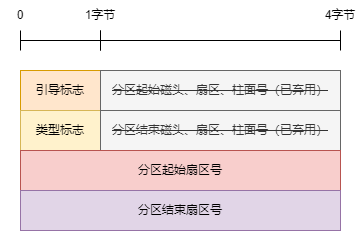
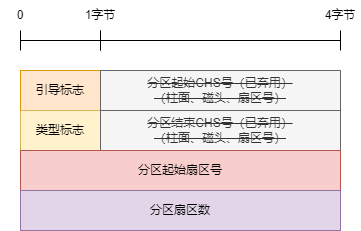
磁盘分区

Changed region(s): [[0.3047, 0.4848, 0.9141, 0.6364], [0.3047, 0.3333, 0.9141, 0.4545], [0.3657, 0.8788, 0.6094, 0.9394]]

diff --git a/linux运维/linux运维 02 磁盘分区/linux运维 02 磁盘分区.md b/linux运维/linux运维 02 磁盘分区/linux运维 02 磁盘分区.md
@@ -1,7 +1,12 @@
 - [mbr分区](#mbr分区)
+  - [mbr分区结构](#mbr分区结构)
+  - [创建mbr分区测试](#创建mbr分区测试)
+  - [查看mbr分区表](#查看mbr分区表)
 - [参考资料](#参考资料)
 
 # mbr分区
+
+## mbr分区结构
 
 主引导记录（Master Boot Record）分区，在磁盘的第一个扇区（512字节）记录引导程序和分区表，结构如下。
 
@@ -11,7 +16,7 @@
 | 磁盘分区表（DPT） | 64字节  | 每个分区16字节，最多支持4个主分区，或者3个主分区+1个扩展分区 |
 |     结束标志      |  2字节  |                        固定为`55 aa`                         |
 
-扩展分区可以创建多个逻辑分区，每个逻辑分区的第一个扇区记录着当前分区和下一个逻辑分区信息。
+在扩展分区中可以创建多个逻辑分区，扩展分区指向第一个逻辑分区表，每个逻辑分区表记录着当前逻辑分区和下一个逻辑分区表信息。
 
 ![mbr_struct](mbr_struct.png)
 
@@ -22,14 +27,268 @@
 - 引导标志：80H表示活动分区，00H表示非活动分区。
 - 类型标志
 
-| 类型标志 |        说明         |
-| :------: | :-----------------: |
-|   0fH    | LBA寻址模式extended |
-|   83H    |    Linux nature     |
-|   85H    |   Linux extended    |
-|   8eH    |      Linux lvm      |
+| 类型  |        说明         | 类型  |       说明        | 类型  |         说明          | 类型  |       说明        |
+| :---: | :-----------------: | :---: | :---------------: | :---: | :-------------------: | :---: | :---------------: |
+|  00   |       `Empty`       |  24   |     `NEC DOS`     |  81   |   `Minix/old Linux`   |  bf   |     `Solaris`     |
+|  01   |       `FAT12`       |  27   | `Hidden NTFS Win` |  82   |     `Linux swap`      |  c1   |    `DRDOS/sec`    |
+|  02   |    `XENIX root`     |  39   |     `Plan 9`      |  83   |        `Linux`        |  c4   |    `DRDOS/sec`    |
+|  03   |     `XENIX usr`     |  3c   | `PartitionMagic`  |  84   |   `OS/2 hidden C:`    |  c6   |    `DRDOS/sec`    |
+|  04   |    `FAT16 <32M`     |  40   |   `Venix 80286`   |  85   |   `Linux extended`    |  c7   |     `Syrinx`      |
+|  05   |     `Extended`      |  41   |  `PPC PReP Boot`  |  86   |   `NTFS volume set`   |  da   |   `Non-FS data`   |
+|  06   |       `FAT16`       |  42   |       `SFS`       |  87   |   `NTFS volume set`   |  db   |    `CP/M/CTOS`    |
+|  07   |  `HPFS/NTFS/exFAT`  |  4d   |     `QNX4.x`      |  88   |   `Linux plaintext`   |  de   |  `Dell Utility`   |
+|  08   |        `AIX`        |  4e   | `QNX4.x 2nd part` |  8e   |      `Linux LVM`      |  df   |     `BootIt`      |
+|  09   |   `AIX bootable`    |  4f   | `QNX4.x 3rd part` |  93   |       `Amoeba`        |  e1   |   `DOS access`    |
+|  0a   | `OS/2 Boot Manage`  |  50   |   `OnTrack DM`    |  94   |     `Amoeba BBT`      |  e3   |     `DOS R/O`     |
+|  0b   |     `W95 FAT32`     |  51   | `OnTrack DM6 Aux` |  9f   |       `BSD/OS`        |  e4   |    `SpeedStor`    |
+|  0c   |  `W95 FAT32 (LBA)`  |  52   |      `CP/M`       |  a0   | `IBM Thinkpad hidden` |  eb   |     `BeOS fs`     |
+|  0e   |  `W95 FAT16 (LBA)`  |  53   | `OnTrack DM6 Aux` |  a5   |       `FreeBSD`       |  ee   |       `GPT`       |
+|  0f   |  `W95 Ext'd (LBA)`  |  54   |   `OnTrackDM6`    |  a6   |       `OpenBSD`       |  ef   |       `EFI`       |
+|  10   |       `OPUS`        |  55   |    `EZ-Drive`     |  a7   |      `NeXTSTEP`       |  f0   | `Linux/PA-RISC b` |
+|  11   |   `Hidden FAT12`    |  56   |   `Golden Bow`    |  a8   |     `Darwin UFS`      |  f1   |    `SpeedStor`    |
+|  12   |  `Compaq diagnost`  |  5c   |   `Priam Edisk`   |  a9   |       `NetBSD`        |  f4   |    `SpeedStor`    |
+|  14   | `Hidden FAT16 <32M` |  61   |    `SpeedStor`    |  ab   |     `Darwin boot`     |  f2   |  `DOS secondary`  |
+|  16   |   `Hidden FAT16`    |  63   | `GNU HURD or Sys` |  af   |      `HFS/HFS+`       |  fb   |   `VMware VMFS`   |
+|  17   |  `Hidden HPFS/NTF`  |  64   | `Novell Netware`  |  b7   |       `BSDI fs`       |  fc   | `VMware VMKCORE`  |
+|  18   |  `AST SmartSleep`   |  65   | `Novell Netware`  |  b8   |      `BSDI swap`      |  fd   | `Linux raid auto` |
+|  1b   | `Hidden W95 FAT32`  |  70   | `DiskSecure Mult` |  bb   | `Boot Wizard hidden`  |  fe   |     `LANstep`     |
+|  1c   | `Hidden W95 FAT32`  |  75   |      `PC/IX`      |  be   |    `Solaris boot`     |  ff   |       `BBT`       |
+|  1e   | `Hidden W95 FAT16`  |  80   |    `Old Minix`    |       |                       |       |                   |
 
 - 分区起始扇区号：最大只能计算到2TB，所以MBR最大只支持2TB的磁盘分区。并且需要考虑扇区对齐，因为物理扇区的大小不一定等于逻辑扇区的大小，所以要让划分的逻辑扇区和物理扇区对齐，linux和window中默认对齐扇区数为2048（一般为1MB）。
+
+## 创建mbr分区测试
+
+下面尝试对一个块设备进行分区，3个主分区+1个扩展分区，扩展分区中包含2个逻辑分区。
+
+```bash
+[rc@centos ~]$ sudo fdisk /dev/sdb
+Welcome to fdisk (util-linux 2.23.2).
+
+Changes will remain in memory only, until you decide to write them.
+Be careful before using the write command.
+
+# 划分第1个主分区
+Command (m for help): n
+Partition type:
+   p   primary (0 primary, 0 extended, 4 free)
+   e   extended
+Select (default p): p
+Partition number (1-4, default 1): 1
+First sector (2048-120176639, default 2048):
+Using default value 2048
+Last sector, +sectors or +size{K,M,G} (2048-120176639, default 120176639): +16G
+Partition 1 of type Linux and of size 16 GiB is set
+
+# 划分第2个主分区
+Command (m for help): n
+Partition type:
+   p   primary (1 primary, 0 extended, 3 free)
+   e   extended
+Select (default p): p
+Partition number (2-4, default 2): 2
+First sector (33556480-120176639, default 33556480):
+Using default value 33556480
+Last sector, +sectors or +size{K,M,G} (33556480-120176639, default 120176639): +16G
+Partition 2 of type Linux and of size 16 GiB is set
+
+# 划分第3个主分区
+Command (m for help): n
+Partition type:
+   p   primary (2 primary, 0 extended, 2 free)
+   e   extended
+Select (default p): p
+Partition number (3,4, default 3): 3
+First sector (67110912-120176639, default 67110912):
+Using default value 67110912
+Last sector, +sectors or +size{K,M,G} (67110912-120176639, default 120176639): +16G
+Partition 3 of type Linux and of size 16 GiB is set
+
+# 划分扩展分区
+Command (m for help): n
+Partition type:
+   p   primary (3 primary, 0 extended, 1 free)
+   e   extended
+Select (default e): e
+Selected partition 4
+First sector (100665344-120176639, default 100665344):
+Using default value 100665344
+Last sector, +sectors or +size{K,M,G} (100665344-120176639, default 120176639):
+Using default value 120176639
+Partition 4 of type Extended and of size 9.3 GiB is set
+
+# 划分第1个逻辑分区
+Command (m for help): n
+All primary partitions are in use
+Adding logical partition 5
+First sector (100667392-120176639, default 100667392):
+Using default value 100667392
+Last sector, +sectors or +size{K,M,G} (100667392-120176639, default 120176639): +8G
+Partition 5 of type Linux and of size 8 GiB is set
+
+# 划分第2个逻辑分区
+Command (m for help): n
+All primary partitions are in use
+Adding logical partition 6
+First sector (117446656-120176639, default 117446656):
+Using default value 117446656
+Last sector, +sectors or +size{K,M,G} (117446656-120176639, default 120176639):
+Using default value 120176639
+Partition 6 of type Linux and of size 1.3 GiB is set
+
+# 查看划分好的分区
+Command (m for help): p
+
+Disk /dev/sdb: 61.5 GB, 61530439680 bytes, 120176640 sectors
+Units = sectors of 1 * 512 = 512 bytes
+Sector size (logical/physical): 512 bytes / 512 bytes
+I/O size (minimum/optimal): 512 bytes / 512 bytes
+Disk label type: dos
+Disk identifier: 0x0007ec62
+
+   Device Boot      Start         End      Blocks   Id  System
+/dev/sdb1            2048    33556479    16777216   83  Linux
+/dev/sdb2        33556480    67110911    16777216   83  Linux
+/dev/sdb3        67110912   100665343    16777216   83  Linux
+/dev/sdb4       100665344   120176639     9755648    5  Extended
+/dev/sdb5       100667392   117444607     8388608   83  Linux
+/dev/sdb6       117446656   120176639     1364992   83  Linux
+
+# 保存分区表到磁盘
+Command (m for help): w
+The partition table has been altered!
+
+Calling ioctl() to re-read partition table.
+Syncing disks.
+[rc@centos ~]$
+```
+
+## 查看mbr分区表
+
+首先查看扇区0，可以看到3个主分区和1个扩展分区信息。
+
+```bash
+[rc@centos ~]$ sudo dd if=/dev/sdb bs=512 count=1 2>/dev/null | hexdump -Cv
+00000000  fa b8 00 10 8e d0 bc 00  b0 b8 00 00 8e d8 8e c0  |................|
+00000010  fb be 00 7c bf 00 06 b9  00 02 f3 a4 ea 21 06 00  |...|.........!..|
+00000020  00 be be 07 38 04 75 0b  83 c6 10 81 fe fe 07 75  |....8.u........u|
+00000030  f3 eb 16 b4 02 b0 01 bb  00 7c b2 80 8a 74 01 8b  |.........|...t..|
+00000040  4c 02 cd 13 ea 00 7c 00  00 eb fe 00 00 00 00 00  |L.....|.........|
+00000050  00 00 00 00 00 00 00 00  00 00 00 00 00 00 00 00  |................|
+00000060  00 00 00 00 00 00 00 00  00 00 00 00 00 00 00 00  |................|
+00000070  00 00 00 00 00 00 00 00  00 00 00 00 00 00 00 00  |................|
+00000080  00 00 00 00 00 00 00 00  00 00 00 00 00 00 00 00  |................|
+00000090  00 00 00 00 00 00 00 00  00 00 00 00 00 00 00 00  |................|
+000000a0  00 00 00 00 00 00 00 00  00 00 00 00 00 00 00 00  |................|
+000000b0  00 00 00 00 00 00 00 00  00 00 00 00 00 00 00 00  |................|
+000000c0  00 00 00 00 00 00 00 00  00 00 00 00 00 00 00 00  |................|
+000000d0  00 00 00 00 00 00 00 00  00 00 00 00 00 00 00 00  |................|
+000000e0  00 00 00 00 00 00 00 00  00 00 00 00 00 00 00 00  |................|
+000000f0  00 00 00 00 00 00 00 00  00 00 00 00 00 00 00 00  |................|
+00000100  00 00 00 00 00 00 00 00  00 00 00 00 00 00 00 00  |................|
+00000110  00 00 00 00 00 00 00 00  00 00 00 00 00 00 00 00  |................|
+00000120  00 00 00 00 00 00 00 00  00 00 00 00 00 00 00 00  |................|
+00000130  00 00 00 00 00 00 00 00  00 00 00 00 00 00 00 00  |................|
+00000140  00 00 00 00 00 00 00 00  00 00 00 00 00 00 00 00  |................|
+00000150  00 00 00 00 00 00 00 00  00 00 00 00 00 00 00 00  |................|
+00000160  00 00 00 00 00 00 00 00  00 00 00 00 00 00 00 00  |................|
+00000170  00 00 00 00 00 00 00 00  00 00 00 00 00 00 00 00  |................|
+00000180  00 00 00 00 00 00 00 00  00 00 00 00 00 00 00 00  |................|
+00000190  00 00 00 00 00 00 00 00  00 00 00 00 00 00 00 00  |................|
+000001a0  00 00 00 00 00 00 00 00  00 00 00 00 00 00 00 00  |................|
+000001b0  00 00 00 00 00 00 00 00  62 ec 07 00 00 00 00 00  |........b.......|
+000001c0  01 01 83 3f 20 00 00 08  00 00 00 00 00 02 00 00  |...? ...........|
+000001d0  01 01 83 3f 20 00 00 08  00 02 00 00 00 02 00 00  |...? ...........|
+000001e0  01 01 83 3f 20 00 00 08  00 04 00 00 00 02 00 00  |...? ...........|
+000001f0  01 01 05 3f 60 37 00 08  00 06 00 b8 29 01 55 aa  |...?`7......).U.|
+```
+
+这里需要注意分区的起始扇区值是小端序保存的，实际上要倒过来看。
+
+可以看到第1个主分区，是从第2048扇区（00 00 08 00）开始的，按1MB对齐。
+
+然后查看扩展分区指向的第1个逻辑分区，需要用到dd命令的skip参数，跳过指定的扇区数。
+
+可以看到第1个逻辑分区是从第2048扇区（00 00 08 00）开始的，按1MB对齐，这里的扇区编号是相对于扩展分区而言的。
+
+```bash
+# 100665344对应16进制的06 00 08 00
+[rc@centos ~]$ sudo dd if=/dev/sdb bs=512 count=1 skip=100665344 2>/dev/null | hexdump -Cv
+00000000  00 00 00 00 00 00 00 00  00 00 00 00 00 00 00 00  |................|
+00000010  00 00 00 00 00 00 00 00  00 00 00 00 00 00 00 00  |................|
+00000020  00 00 00 00 00 00 00 00  00 00 00 00 00 00 00 00  |................|
+00000030  00 00 00 00 00 00 00 00  00 00 00 00 00 00 00 00  |................|
+00000040  00 00 00 00 00 00 00 00  00 00 00 00 00 00 00 00  |................|
+00000050  00 00 00 00 00 00 00 00  00 00 00 00 00 00 00 00  |................|
+00000060  00 00 00 00 00 00 00 00  00 00 00 00 00 00 00 00  |................|
+00000070  00 00 00 00 00 00 00 00  00 00 00 00 00 00 00 00  |................|
+00000080  00 00 00 00 00 00 00 00  00 00 00 00 00 00 00 00  |................|
+00000090  00 00 00 00 00 00 00 00  00 00 00 00 00 00 00 00  |................|
+000000a0  00 00 00 00 00 00 00 00  00 00 00 00 00 00 00 00  |................|
+000000b0  00 00 00 00 00 00 00 00  00 00 00 00 00 00 00 00  |................|
+000000c0  00 00 00 00 00 00 00 00  00 00 00 00 00 00 00 00  |................|
+000000d0  00 00 00 00 00 00 00 00  00 00 00 00 00 00 00 00  |................|
+000000e0  00 00 00 00 00 00 00 00  00 00 00 00 00 00 00 00  |................|
+000000f0  00 00 00 00 00 00 00 00  00 00 00 00 00 00 00 00  |................|
+00000100  00 00 00 00 00 00 00 00  00 00 00 00 00 00 00 00  |................|
+00000110  00 00 00 00 00 00 00 00  00 00 00 00 00 00 00 00  |................|
+00000120  00 00 00 00 00 00 00 00  00 00 00 00 00 00 00 00  |................|
+00000130  00 00 00 00 00 00 00 00  00 00 00 00 00 00 00 00  |................|
+00000140  00 00 00 00 00 00 00 00  00 00 00 00 00 00 00 00  |................|
+00000150  00 00 00 00 00 00 00 00  00 00 00 00 00 00 00 00  |................|
+00000160  00 00 00 00 00 00 00 00  00 00 00 00 00 00 00 00  |................|
+00000170  00 00 00 00 00 00 00 00  00 00 00 00 00 00 00 00  |................|
+00000180  00 00 00 00 00 00 00 00  00 00 00 00 00 00 00 00  |................|
+00000190  00 00 00 00 00 00 00 00  00 00 00 00 00 00 00 00  |................|
+000001a0  00 00 00 00 00 00 00 00  00 00 00 00 00 00 00 00  |................|
+000001b0  00 00 00 00 00 00 00 00  00 00 00 00 00 00 00 00  |................|
+000001c0  01 02 83 3f 20 01 00 08  00 00 00 00 00 01 00 00  |...? ...........|
+000001d0  01 02 05 3f 60 37 00 08  00 01 00 b0 29 00 00 00  |...?`7......)...|
+000001e0  00 00 00 00 00 00 00 00  00 00 00 00 00 00 00 00  |................|
+000001f0  00 00 00 00 00 00 00 00  00 00 00 00 00 00 55 aa  |..............U.|
+```
+
+然后查看第2个逻辑分区。
+
+可以看到第2个逻辑分区是从第2048扇区（00 00 08 00）开始的，按1MB对齐，这里的扇区编号是相对于剩余的扩展分区而言的。
+
+```bash
+# 117444608对应16进制的06 00 08 00加上01 00 08 00
+[rc@centos ~]$ sudo dd if=/dev/sdb bs=512 count=1 skip=117444608 2>/dev/null | hexdump -Cv
+00000000  00 00 00 00 00 00 00 00  00 00 00 00 00 00 00 00  |................|
+00000010  00 00 00 00 00 00 00 00  00 00 00 00 00 00 00 00  |................|
+00000020  00 00 00 00 00 00 00 00  00 00 00 00 00 00 00 00  |................|
+00000030  00 00 00 00 00 00 00 00  00 00 00 00 00 00 00 00  |................|
+00000040  00 00 00 00 00 00 00 00  00 00 00 00 00 00 00 00  |................|
+00000050  00 00 00 00 00 00 00 00  00 00 00 00 00 00 00 00  |................|
+00000060  00 00 00 00 00 00 00 00  00 00 00 00 00 00 00 00  |................|
+00000070  00 00 00 00 00 00 00 00  00 00 00 00 00 00 00 00  |................|
+00000080  00 00 00 00 00 00 00 00  00 00 00 00 00 00 00 00  |................|
+00000090  00 00 00 00 00 00 00 00  00 00 00 00 00 00 00 00  |................|
+000000a0  00 00 00 00 00 00 00 00  00 00 00 00 00 00 00 00  |................|
+000000b0  00 00 00 00 00 00 00 00  00 00 00 00 00 00 00 00  |................|
+000000c0  00 00 00 00 00 00 00 00  00 00 00 00 00 00 00 00  |................|
+000000d0  00 00 00 00 00 00 00 00  00 00 00 00 00 00 00 00  |................|
+000000e0  00 00 00 00 00 00 00 00  00 00 00 00 00 00 00 00  |................|
+000000f0  00 00 00 00 00 00 00 00  00 00 00 00 00 00 00 00  |................|
+00000100  00 00 00 00 00 00 00 00  00 00 00 00 00 00 00 00  |................|
+00000110  00 00 00 00 00 00 00 00  00 00 00 00 00 00 00 00  |................|
+00000120  00 00 00 00 00 00 00 00  00 00 00 00 00 00 00 00  |................|
+00000130  00 00 00 00 00 00 00 00  00 00 00 00 00 00 00 00  |................|
+00000140  00 00 00 00 00 00 00 00  00 00 00 00 00 00 00 00  |................|
+00000150  00 00 00 00 00 00 00 00  00 00 00 00 00 00 00 00  |................|
+00000160  00 00 00 00 00 00 00 00  00 00 00 00 00 00 00 00  |................|
+00000170  00 00 00 00 00 00 00 00  00 00 00 00 00 00 00 00  |................|
+00000180  00 00 00 00 00 00 00 00  00 00 00 00 00 00 00 00  |................|
+00000190  00 00 00 00 00 00 00 00  00 00 00 00 00 00 00 00  |................|
+000001a0  00 00 00 00 00 00 00 00  00 00 00 00 00 00 00 00  |................|
+000001b0  00 00 00 00 00 00 00 00  00 00 00 00 00 00 00 00  |................|
+000001c0  01 03 83 3f 60 37 00 08  00 00 00 a8 29 00 00 00  |...?`7......)...|
+000001d0  00 00 00 00 00 00 00 00  00 00 00 00 00 00 00 00  |................|
+000001e0  00 00 00 00 00 00 00 00  00 00 00 00 00 00 00 00  |................|
+000001f0  00 00 00 00 00 00 00 00  00 00 00 00 00 00 55 aa  |..............U.|
+```
+
 
 # 参考资料
 
